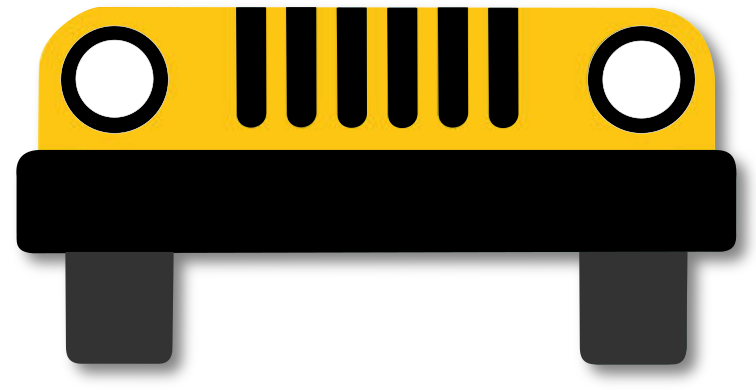
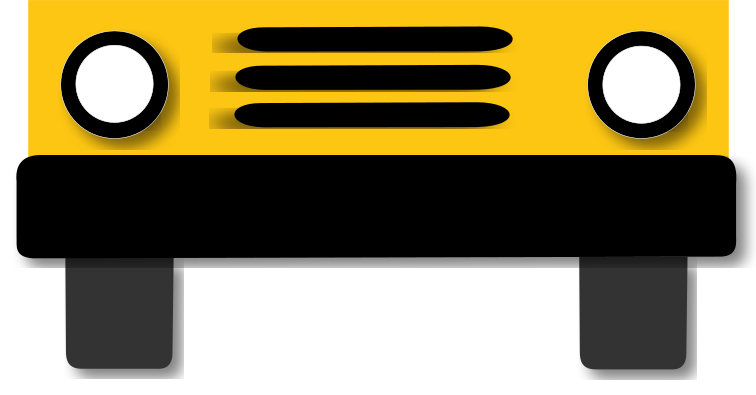
Added new bus png

diff --git a/index.html b/index.html
@@ -35,16 +35,16 @@
         <img class="bus-image" src="./img/bus-top.png" alt="">
 
         <div id="left-product">
-          <img id="left-product-image" src="./img/bag.jpg">
           <p id="left-product-name"></p>
+          <img id="left-product-image" src="./img/bag.jpg">
         </div>
         <div id="middle-product">
-          <img id="middle-product-image" src="./img/pen.jpg">
           <p id="middle-product-name"></p>
+          <img id="middle-product-image" src="./img/pen.jpg">
         </div>
         <div class="right-product">
-          <img id="right-product-image" src="./img/dragon.jpg">
           <p id="right-product-name"></p>
+          <img id="right-product-image" src="./img/dragon.jpg">
         </div>
         
         <img class="bus-image" src="./img/bus-bottom.png" alt="">

diff --git a/css/style.css b/css/style.css
@@ -4,6 +4,11 @@
 
 body {
   font-family: 'Roboto', sans-serif;
+  background-image: url('../img/road.png');
+  background-repeat: no-repeat;
+  background-attachment: fixed;
+  background-position: center;
+  /* background-size: cover; */
 }
 
 header {
@@ -123,7 +128,6 @@ main > section#product-container > div {
 main > section#product-container > img.bus-image {
   width: 100%;
   margin-top: 15px;
-  margin-bottom: 15px;
 }
 
 main > section > div > img {
